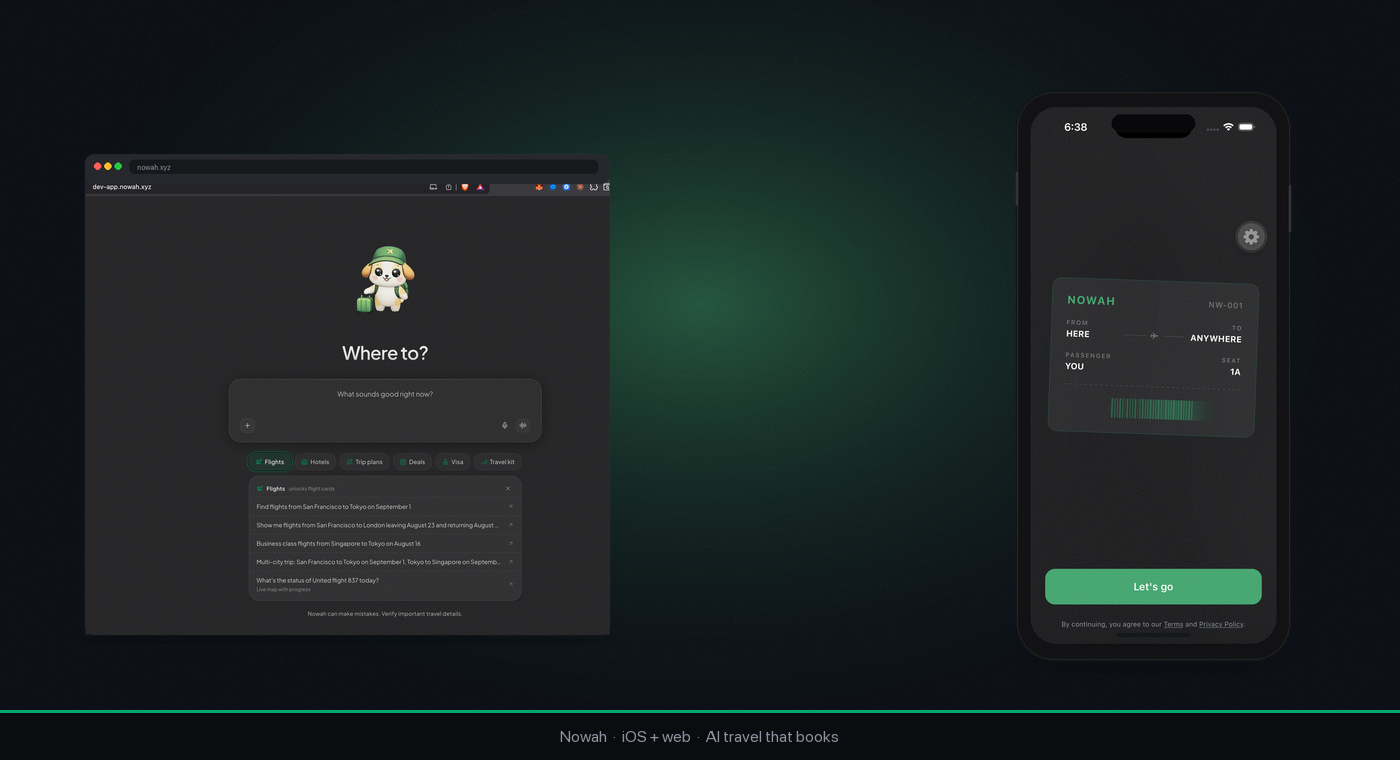
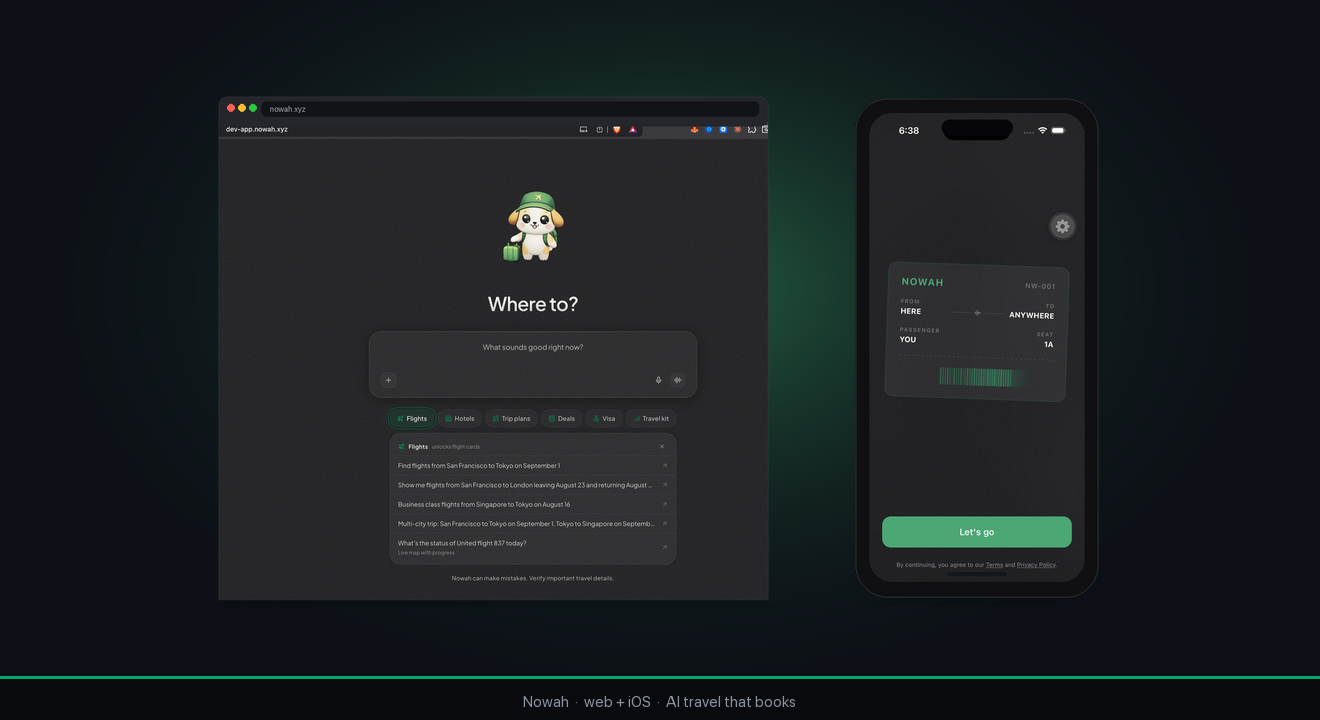
Fix product hero composition and tighten profile layout
Rebuild web+iOS stage so the full Where to? UI is visible (no
half-crop washout), pair it cleanly with the boarding-pass phone,
and drop the redundant second product row. Single hero carries the
craft; copy and sections stay restrained.

diff --git a/README.md b/README.md
@@ -1,7 +1,7 @@
 <!--
   github.com/maslinedwin — product-first founder Overview
-  Design system: Nowah jade #00A86B · charcoal · dual-theme headers
-  Monthly: update Now + Recently shipped only.
+  Design: Nowah jade #00A86B · dual-theme SVG headers · product hero
+  Monthly: Now + Recently shipped only.
   Never: badge walls, stats widgets, snakes, trophies, star-cosplay pins.
 -->
 
@@ -29,13 +29,11 @@ Singapore
 
 <br />
 
-<img src="./assets/divider.png" alt="" width="100%" />
-
 ### Building
 
 I build **[Nowah](https://nowah.xyz)** — AI travel that books flights, eSIMs, and the boring middle so trips actually start.
 
-Days look like iOS + web product work, booking reliability, payments, and the APIs that make agents useful for real travel — not demos.
+Most days: iOS + web product work, booking reliability, payments, and the APIs that make agents useful for real travel — not demos.
 
 > *Shipping things I care about. Less talk, more code.*
 
@@ -43,45 +41,23 @@ Days look like iOS + web product work, booking reliability, payments, and the AP
 
 <div align="center">
   <img src="./assets/nowah-hero.png" alt="Nowah product — web Where to? home and iOS boarding-pass onboarding" width="100%" />
-  <br />
-  <sub>Nowah · web + iOS · book the trip, not the tabs</sub>
 </div>
 
 <br />
 
-<div align="center">
-  <img src="./assets/nowah-phone-onboarding.png" alt="Nowah iOS boarding pass onboarding" height="380" />
-  &nbsp;&nbsp;&nbsp;
-  <img src="./assets/nowah-web-home.png" alt="Nowah web chat home — Where to?" height="380" />
-</div>
+### Start here
 
-<br />
-
-<img src="./assets/section-start.svg" alt="Start here" width="100%" />
-
-<table>
-  <tr>
-    <td width="28%"><strong><a href="https://nowah.xyz">Nowah</a></strong></td>
-    <td>Product — AI travel that books (flights, eSIM, the messy middle)</td>
-  </tr>
-  <tr>
-    <td><strong><a href="https://github.com/Nowah-xyz/nowah-mcp-server">nowah-mcp-server</a></strong></td>
-    <td>MCP server for assistants — flights, hotels, visas, live status</td>
-  </tr>
-  <tr>
-    <td><strong><a href="https://github.com/Nowah-xyz/nowah-go-sdk">nowah-go-sdk</a></strong></td>
-    <td>Official Go client for the Nowah Travel API</td>
-  </tr>
-  <tr>
-    <td><strong><a href="https://github.com/Nowah-xyz/nowah-java-sdk">nowah-java-sdk</a></strong></td>
-    <td>Official Java client for the Nowah Travel API</td>
-  </tr>
-</table>
+| | |
+|:--|:--|
+| **[Nowah](https://nowah.xyz)** | Product — AI travel that books |
+| **[nowah-mcp-server](https://github.com/Nowah-xyz/nowah-mcp-server)** | MCP for assistants — flights, hotels, visas, live status |
+| **[nowah-go-sdk](https://github.com/Nowah-xyz/nowah-go-sdk)** | Official Go client for the Travel API |
+| **[nowah-java-sdk](https://github.com/Nowah-xyz/nowah-java-sdk)** | Official Java client for the Travel API |
 
 ### Now
 
-- Shipping the full loop: **search → choose → pay → trip**, including eSIM install
-- Hardening public **MCP + SDKs** so partners ride the same rails we do
+- Shipping the full loop: **search → choose → pay → trip**, including eSIM
+- Hardening public **MCP + SDKs** so partners use the same rails we do
 - Building in public where it helps — private where the product needs to
 
 ### Recently shipped
@@ -95,7 +71,7 @@ Days look like iOS + web product work, booking reliability, payments, and the AP
 ### Tools I use to build Nowah
 
 <p align="center">
-  <img src="https://skillicons.dev/icons?i=typescript,react,nextjs,nodejs,postgres,redis,aws,docker,figma&theme=dark" alt="TypeScript React Next.js Node Postgres Redis AWS Docker Figma" />
+  <img src="https://skillicons.dev/icons?i=typescript,react,nextjs,nodejs,postgres,redis,aws,docker&theme=dark" alt="TypeScript, React, Next.js, Node, Postgres, Redis, AWS, Docker" />
 </p>
 
 | Surface | Stack |
@@ -110,26 +86,17 @@ Days look like iOS + web product work, booking reliability, payments, and the AP
 
 <br />
 
-`TypeScript` `React Native` `Expo` `Next.js` `Node` `PostgreSQL` `Redis` `Prisma` `AWS` `Docker` `Stripe` · model APIs as needed
+`TypeScript` `React Native` `Expo` `Next.js` `Node` `PostgreSQL` `Redis` `Prisma` `AWS` `Docker` `Stripe`
 
 </details>
 
 ### Reach
 
-<table>
-  <tr>
-    <td>Product</td>
-    <td><a href="https://nowah.xyz">nowah.xyz</a></td>
-  </tr>
-  <tr>
-    <td>Email</td>
-    <td><a href="mailto:maslin@nowah.xyz">maslin@nowah.xyz</a></td>
-  </tr>
-  <tr>
-    <td>X</td>
-    <td><a href="https://x.com/maslinedwin">@maslinedwin</a></td>
-  </tr>
-</table>
+| | |
+|:--|:--|
+| Product | [nowah.xyz](https://nowah.xyz) |
+| Email | [maslin@nowah.xyz](mailto:maslin@nowah.xyz) |
+| X | [@maslinedwin](https://x.com/maslinedwin) |
 
 If you’re building travel infrastructure, agent tooling, or want to collaborate — say hello.
 
